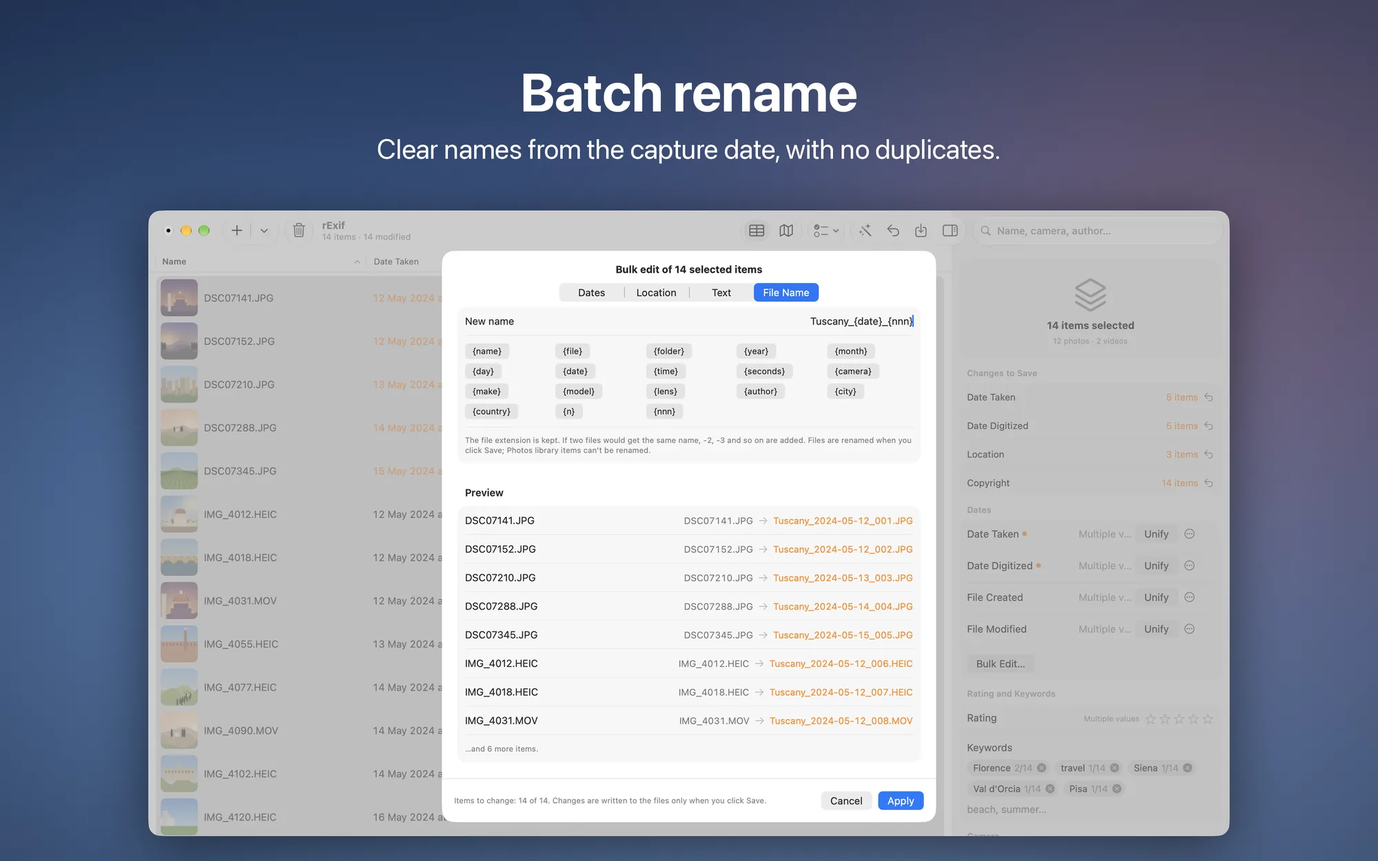
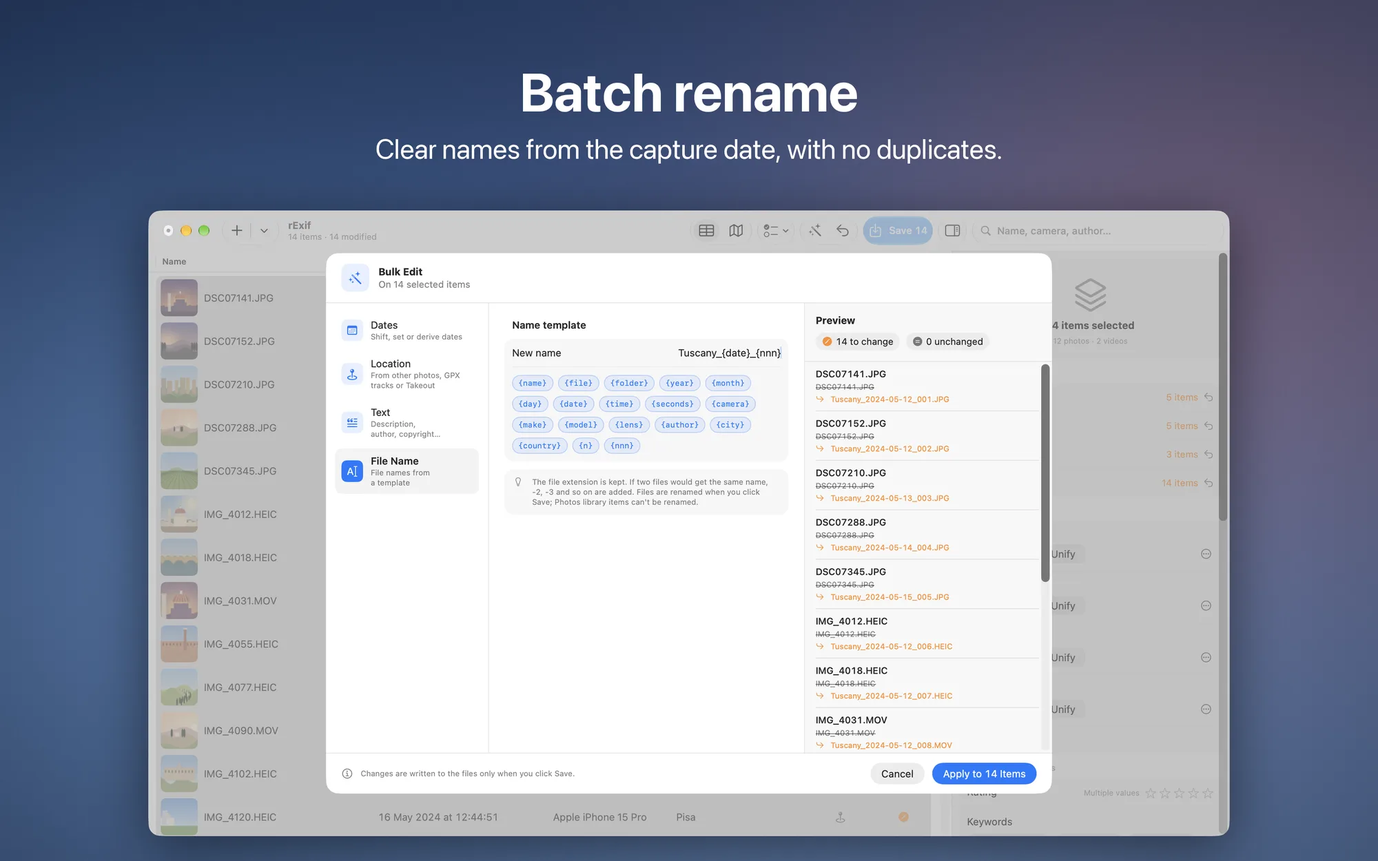
feat(rexif): pagina, screenshot e documentazione per la 1.1

diff --git a/src/data/projects/rexif.md b/src/data/projects/rexif.md
@@ -23,16 +23,18 @@ rExif è l'editor di metadati per foto e video sul Mac. Data sbagliata, posizion
 - **Date giuste, anche in blocco**: sposta tutte le date di un intervallo, ad esempio quando l'orologio della fotocamera era indietro di un'ora, oppure correggilo partendo da una foto di cui conosci l'ora esatta
 - **Date da dove servono**: ricavate dal nome del file (IMG_20230514_123456, WhatsApp, screenshot, Pixel…), dal nome della cartella o dai JSON di Google Takeout; date in sequenza, quelle mancanti riempite dai vicini, cambio di fuso orario
 - **Date del file allineate**: creazione e modifica del file portate alla data di scatto in un clic
-- **Posizione sulla mappa**: trascini le foto sulla mappa per assegnare la posizione, oppure cerchi un luogo per nome
+- **Posizione sulla mappa**: trascini le foto sulla mappa per assegnare la posizione, oppure cerchi un luogo per nome; le foto scattate nello stesso posto si raggruppano, con il numero di scatti
 - **Posizione automatica**: dalla foto più vicina nel tempo, da una traccia GPX (Strava, Garmin…) o da Google Takeout; città, regione e paese ricavati dalle coordinate
 - **Copie da condividere**: esporti copie senza posizione né dati personali
 - **Testo e parole chiave**: fotocamera, obiettivo, descrizione, autore e copyright; modelli con segnaposto come "© {anno} Mario Rossi" e trova e sostituisci su tutti gli elementi; parole chiave e valutazione a stelle, lette anche da Lightroom
 - **Rinomina in blocco**: con un modello, ad esempio `{data}_{nnn}`
-- **Lavora veloce**: tabella con colonne personalizzabili, ricerca e selezione rapida (senza data, senza posizione, date sospette, per fotocamera…); copia i metadati da una foto e incollali su altre; esporta e importa in CSV per correggerli in un foglio di calcolo
-- **Controlla prima di salvare**: ogni modifica si annulla, si ripete o si ripristina; Anteprima rapida con la barra spaziatrice
+- **Modifiche in blocco chiare**: le operazioni sono divise in date, posizione, testo e nome file, e l'anteprima mostra ogni elemento, prima e dopo, mentre cambi le opzioni; se cambi idea, annulli dal messaggio che conferma la modifica o con <kbd>⌘</kbd> <kbd>Z</kbd>
+- **Lavora veloce**: tabella con colonne personalizzabili e ricerca su nome, fotocamera, autore, luogo e parole chiave; filtri nella ricerca e selezione rapida (modificati, senza data, senza posizione, date sospette, solo video, per fotocamera…); copia i metadati da una foto e incollali su altre; esporta e importa in CSV per correggerli in un foglio di calcolo
+- **Controlla prima di salvare**: ogni modifica si annulla, si ripete o si ripristina; Anteprima rapida con la barra spaziatrice; nell'inspector una mappa in miniatura e gli errori di lettura o salvataggio in evidenza
+- **Pensata per librerie grandi**: le cartelle con migliaia di foto compaiono a blocchi mentre rExif le esamina, senza bloccare la finestra; ricerca, ordinamento e miniature restano rapidi
 - **Tutti i formati**: JPEG, HEIC, PNG e TIFF riscritti senza ricomprimere l'immagine; MOV, MP4 e M4V senza ricodificare; RAW (CR2, NEF, ARW…) e AVI, MKV, MTS restano intatti e i metadati vanno in un `.xmp` accanto, letto da Lightroom, Bridge e Premiere
 - **Libreria Foto**: modifichi data e posizione direttamente in Foto, oppure esporti gli originali
-- **Integrata con macOS**: trascinamento nella finestra o sull'icona nel Dock, "Apri con…" dal Finder, riapertura della sessione precedente
+- **Integrata con macOS**: trascinamento nella finestra o sull'icona nel Dock, "Apri con…" dal Finder, cartelle recenti, riapertura della sessione precedente; rispetta Riduci movimento delle impostazioni di Accessibilità
 - **Tema chiaro, scuro o automatico**: interfaccia in italiano e in inglese
 - **Nessun abbonamento**: gratuita, senza pubblicità e senza acquisti in-app
 

diff --git a/src/data/en/projects/rexif.md b/src/data/en/projects/rexif.md
@@ -23,16 +23,18 @@ rExif is the metadata editor for photos and videos on your Mac. Wrong dates, mis
 - **The right dates, even in bulk**: shift every date by an interval, for example when the camera clock was an hour behind, or correct it from one photo whose exact time you know
 - **Dates from wherever they are**: from the file name (IMG_20230514_123456, WhatsApp, screenshots, Pixel…), the folder name, or Google Takeout JSON files; dates in sequence, missing ones filled in from their neighbors, time zone changes
 - **File dates aligned**: file creation and modification dates matched to the capture date in one click
-- **Location on the map**: drag photos onto the map to set their location, or search for a place by name
+- **Location on the map**: drag photos onto the map to set their location, or search for a place by name; photos taken in the same spot are grouped, with the number of shots
 - **Automatic location**: from the photo closest in time, from a GPX track (Strava, Garmin…), or from Google Takeout; city, state, and country from the coordinates
 - **Copies to share**: export copies without location or personal data
 - **Text and keywords**: camera, lens, description, author, and copyright; templates with placeholders such as "© {year} Jane Smith", plus find and replace across every item; keywords and star ratings, also read by Lightroom
 - **Batch rename**: with a template, for example `{date}_{nnn}`
-- **Work fast**: a table with customizable columns, search, and quick selection (no date, no location, suspicious dates, by camera…); copy metadata from one photo and paste it onto others; export and import as CSV to fix it in a spreadsheet
-- **Review before you save**: every change can be undone, redone, or reverted; Quick Look with the space bar
+- **Clear bulk edits**: operations are split into dates, location, text, and file name, and the preview shows every item, before and after, while you change the options; changed your mind? Undo from the message that confirms the edit, or with <kbd>⌘</kbd> <kbd>Z</kbd>
+- **Work fast**: a table with customizable columns and search across name, camera, author, place, and keywords; filters in search and quick selection (modified, no date, no location, suspicious dates, videos only, by camera…); copy metadata from one photo and paste it onto others; export and import as CSV to fix it in a spreadsheet
+- **Review before you save**: every change can be undone, redone, or reverted; Quick Look with the space bar; a mini map in the inspector, with read and save errors front and center
+- **Built for large libraries**: folders with thousands of photos appear in batches while rExif scans them, without freezing the window; search, sorting, and thumbnails stay fast
 - **Every format**: JPEG, HEIC, PNG, and TIFF rewritten without recompressing the image; MOV, MP4, and M4V without re-encoding; RAW (CR2, NEF, ARW…) and AVI, MKV, MTS stay untouched, with metadata in an `.xmp` next to them, read by Lightroom, Bridge, and Premiere
 - **Photos library**: change the date and location right in Photos, or export the originals
-- **Built for macOS**: drag into the window or onto the Dock icon, "Open With…" in Finder, reopens your previous session
+- **Built for macOS**: drag into the window or onto the Dock icon, "Open With…" in Finder, recent folders, reopens your previous session; respects Reduce Motion in Accessibility settings
 - **Light, dark, or automatic appearance**: interface in English and Italian
 - **No subscription**: free, with no ads and no in-app purchases
 

diff --git a/src/data/docs/rexif/scorciatoie-filtri.md b/src/data/docs/rexif/scorciatoie-filtri.md
@@ -1,6 +1,6 @@
 ---
-title: "Scorciatoie e selezioni rapide"
-description: "Elenco completo delle scorciatoie da tastiera di rExif e dei criteri del menu Seleziona per lavorare più in fretta."
+title: "Scorciatoie, filtri e selezioni rapide"
+description: "Le scorciatoie da tastiera di rExif, i filtri della casella di ricerca e i criteri del menu Seleziona per trovare in fretta le foto da correggere."
 project: "rexif"
 order: 9
 section: "Riferimento"
@@ -19,12 +19,12 @@ Le funzioni principali di rExif hanno una scorciatoia da tastiera:
 | **Salva modifiche** | `⌘ + S` | Scrive su disco tutte le modifiche evidenziate in arancione |
 | **Svuota lista** | `⇧ + ⌘ + ⌫` | Toglie tutti gli elementi dalla finestra (i file su disco restano intatti, `⌘Z` li rimette) |
 | **Mostra nel Finder** | `⇧ + ⌘ + R` | Mostra i file selezionati nella loro cartella del Finder |
-| **Impostazioni** | `⌘ + ,` | Apre le impostazioni (lingua, aspetto, miniature, sessione) |
+| **Impostazioni** | `⌘ + ,` | Apre le impostazioni (generale, aspetto, avanzate, informazioni) |
 
 ### Modifiche e metadati
 | Azione | Scorciatoia | Descrizione |
 | :--- | :--- | :--- |
-| **Modifiche in blocco…** | `⇧ + ⌘ + D` | Apre il pannello batch con anteprima riga per riga |
+| **Modifiche in blocco…** | `⇧ + ⌘ + D` | Apre la finestra delle modifiche in blocco, con l'anteprima di ogni elemento |
 | **Allinea tutte le date alla data di scatto** | `⇧ + ⌘ + L` | Copia la data di scatto nella data di digitalizzazione e nelle date del file |
 | **Copia metadati** | `⌥ + ⌘ + C` | Copia i metadati della foto selezionata negli appunti |
 | **Incolla metadati** | `⌥ + ⌘ + V` | Incolla tutti i metadati copiati sulla selezione (dal menu puoi incollarne anche solo una parte) |
@@ -41,6 +41,14 @@ Le funzioni principali di rExif hanno una scorciatoia da tastiera:
 | **Ingrandisci miniature** | `⌘ + +` | Aumenta la dimensione delle miniature nella tabella |
 | **Riduci miniature** | `⌘ + -` | Riduce la dimensione delle miniature nella tabella |
 | **Anteprima rapida** | `Spazio` | Mostra l'anteprima Quick Look degli elementi selezionati |
+
+## Filtri nella ricerca
+
+La casella di ricerca nella barra degli strumenti (*Nome, fotocamera, autore…*) cerca nel nome del file, nella fotocamera e nell'obiettivo, nella descrizione, nell'autore, nel copyright, nel luogo (città, regione, paese) e nelle parole chiave.
+
+Mentre scrivi, sotto la casella compaiono anche dei filtri: sceglierne uno lo aggiunge alla casella come un'etichetta. I filtri disponibili sono **Modificati**, **Senza GPS**, **Con GPS**, **Senza data**, **Date sospette**, **Date del file diverse**, **Solo foto**, **Solo video**, **Libreria Foto** ed **Errori**, con gli stessi criteri delle voci del menu Seleziona descritte sotto.
+
+Con più filtri, o con un filtro e del testo, la tabella e la mappa mostrano solo gli elementi che li soddisfano tutti. Le modifiche in blocco, se non hai selezionato niente, valgono per gli elementi visibili.
 
 ## Il menu Seleziona
 

diff --git a/src/data/docs/rexif/installazione.md b/src/data/docs/rexif/installazione.md
@@ -37,11 +37,27 @@ rExif lavora con l'app Foto di macOS in due modi, tramite il framework di sistem
 
 - **Accesso ai file**: rExif lavora nella sandbox e accede solo ai file e alle cartelle che apri tu, con il trascinamento, con **Apri con** dal Finder o con il pannello **Aggiungi foto e video…** (`⌘O`). Per creare un file `.xmp` accanto a un file aggiunto da solo, al salvataggio rExif chiede l'accesso alla sua cartella.
 - **Sessione**: alla chiusura, i percorsi dei file e gli identificativi degli elementi di Foto vengono ricordati come segnalibri sicuri (`SessionStore`); al riavvio rExif riapre la sessione precedente. Puoi disattivare questa funzione nelle Impostazioni.
+- **Cartelle recenti**: rExif ricorda le ultime cinque cartelle aggiunte, con un segnalibro sicuro. Quando la lista è vuota compaiono nella finestra e si riaprono con un clic; le cancelli dalle Impostazioni.
 
 ## Impostazioni (`⌘,`)
 
-Nelle Impostazioni puoi scegliere:
-- **Lingua**: *Sistema*, *Italiano* o *English* (applicata al riavvio dell'app).
-- **Aspetto**: *Sistema*, *Chiaro* o *Scuro*.
-- **Miniature**: la dimensione delle miniature nella tabella.
-- **Sessione**: se riaprire all'avvio gli elementi della sessione precedente.
+Le Impostazioni hanno quattro schede.
+
+### Generale
+- **Lingua**: *Sistema*, *Italiano* o *English*. La nuova lingua si usa al prossimo avvio; con **Riavvia ora** l'app si riapre subito (con modifiche non salvate non si riavvia: prima vanno salvate o ripristinate). Date e numeri seguono comunque il formato della regione scelta in Impostazioni di Sistema.
+- **Riapri gli elementi della sessione precedente**: riapre all'avvio file e cartelle della lista. Le modifiche non salvate non vengono conservate.
+- **Cartelle recenti**: quante ne sono ricordate, con il pulsante **Cancella elenco**.
+
+### Aspetto
+- **Tema**: *Sistema*, *Chiaro* o *Scuro*.
+- **Miniature**: *Piccole*, *Medie* o *Grandi*, con un'anteprima dell'altezza delle righe.
+- **Date compatte**: date più corte nelle colonne della tabella, che così occupano meno spazio.
+- **Colonne, ordine e larghezze**: **Ripristina** torna alle colonne iniziali. Le colonne si mostrano o nascondono anche con un clic destro sulle intestazioni.
+- **Animazioni**: seguono il sistema. Con *Riduci movimento* attivo in Impostazioni di Sistema › Accessibilità › Monitor, mappa e pannelli non si animano.
+
+### Avanzate
+- **Miniature in memoria**: il limite di memoria per le miniature, con il pulsante **Svuota**. Le miniature si rigenerano quando servono e si liberano da sole se il Mac ha bisogno di memoria.
+- **Letture in parallelo**: automatiche, in base al disco: sei file insieme sul disco interno, tre su un disco esterno, due su un volume di rete.
+
+### Informazioni
+Versione e build dell'app e un riepilogo della privacy.

diff --git a/src/data/docs/rexif/index.md b/src/data/docs/rexif/index.md
@@ -32,7 +32,20 @@ section: "Iniziare"
 
 Dalla barra degli strumenti o con una scorciatoia puoi passare da una modalità all'altra:
 - **Come tabella** (`⌃⌘1`): elenco completo con miniature ridimensionabili (`⌘+`, `⌘-`), colonne ordinabili e selezione multipla.
-- **Come mappa** (`⌃⌘2`): tutti gli elementi con una posizione su una mappa di Apple Maps, ciascuno con il suo segnaposto.
+- **Come mappa** (`⌃⌘2`): tutti gli elementi con una posizione su una mappa di Apple Maps, con la loro miniatura. Le foto scattate nello stesso posto si raggruppano in un'unica miniatura con il numero di scatti; avvicinandoti i gruppi si separano.
+
+La casella di ricerca nella barra degli strumenti cerca per nome del file, fotocamera, obiettivo, descrizione, autore, copyright, luogo e parole chiave, e accetta dei filtri (vedi [Scorciatoie, filtri e selezioni rapide](/progetti/rexif/docs/scorciatoie-filtri)).
+
+## Modifiche in blocco (`⇧⌘D`)
+
+La finestra **Modifiche in blocco** lavora sugli elementi selezionati, o, se non ne hai selezionato nessuno, su tutti quelli visibili nella lista (cioè che passano ricerca e filtri). È divisa in tre colonne:
+- a sinistra le sezioni **Date**, **Posizione**, **Testo** e **Nome file**, ciascuna con una riga che dice cosa fa;
+- al centro le opzioni dell'operazione scelta;
+- a destra l'**Anteprima**, che mostra ogni elemento prima e dopo e si aggiorna mentre cambi le opzioni.
+
+**Applica** porta le modifiche nella lista, in arancione: i file cambiano solo quando premi **Salva**. Dopo l'applicazione compare in basso un messaggio con il pulsante **Annulla**, che toglie la modifica in blocco appena fatta; resta visibile per circa dieci secondi, poi puoi sempre usare `⌘Z`.
+
+Con molti elementi l'anteprima si calcola in background, e l'applicazione, l'aggiunta di cartelle grandi e il salvataggio mostrano l'avanzamento in un pannello: la finestra resta utilizzabile.
 
 ## Prossimi passi
 
@@ -43,4 +56,4 @@ Dalla barra degli strumenti o con una scorciatoia puoi passare da una modalità 
 - [Rinomina in blocco e CSV](/progetti/rexif/docs/rinomina-esportazione-batch): modelli di rinomina ed esportazione e importazione dei metadati in CSV.
 - [Pulizia e copie senza dati personali](/progetti/rexif/docs/pulizia-metadati): esportazione di copie da condividere.
 - [Formati e sidecar XMP](/progetti/rexif/docs/formati-e-sidecar): dettagli tecnici su MOV/MP4, RAW e limiti noti.
-- [Scorciatoie e selezioni rapide](/progetti/rexif/docs/scorciatoie-filtri): elenco delle scorciatoie da tastiera e del menu Seleziona.
+- [Scorciatoie, filtri e selezioni rapide](/progetti/rexif/docs/scorciatoie-filtri): scorciatoie da tastiera, filtri nella ricerca e menu Seleziona.

diff --git a/src/data/en/docs/rexif/shortcuts-and-filters.md b/src/data/en/docs/rexif/shortcuts-and-filters.md
@@ -1,6 +1,6 @@
 ---
-title: "Shortcuts and Quick Selections"
-description: "Complete list of rExif keyboard shortcuts and of the Select menu criteria to work faster."
+title: "Shortcuts, Filters and Quick Selections"
+description: "rExif keyboard shortcuts, search field filters and the Select menu criteria, to quickly find the photos that need fixing."
 project: "rexif"
 order: 9
 section: "Reference"
@@ -19,12 +19,12 @@ The main features of rExif have a keyboard shortcut:
 | **Save Changes** | `⌘ + S` | Writes every orange change to disk |
 | **Clear List** | `⇧ + ⌘ + ⌫` | Removes every item from the window (files on disk stay intact, `⌘Z` brings them back) |
 | **Show in Finder** | `⇧ + ⌘ + R` | Shows the selected files in their Finder folder |
-| **Settings** | `⌘ + ,` | Opens settings (language, appearance, thumbnails, session) |
+| **Settings** | `⌘ + ,` | Opens settings (General, Appearance, Advanced, About) |
 
 ### Editing and Metadata
 | Action | Shortcut | Description |
 | :--- | :--- | :--- |
-| **Bulk Edit…** | `⇧ + ⌘ + D` | Opens the bulk panel with a row-by-row preview |
+| **Bulk Edit…** | `⇧ + ⌘ + D` | Opens the Bulk Edit window, with a preview of every item |
 | **Align All Dates to Date Taken** | `⇧ + ⌘ + L` | Copies the date taken to the date digitized and the file dates |
 | **Copy Metadata** | `⌥ + ⌘ + C` | Copies the selected photo's metadata |
 | **Paste Metadata** | `⌥ + ⌘ + V` | Pastes all copied metadata onto the selection (from the menu you can paste just part of it) |
@@ -41,6 +41,14 @@ The main features of rExif have a keyboard shortcut:
 | **Bigger thumbnails** | `⌘ + +` | Increases thumbnail size in the table |
 | **Smaller thumbnails** | `⌘ + -` | Decreases thumbnail size in the table |
 | **Quick Look** | `Space` | Shows the Quick Look preview of the selected items |
+
+## Filters in Search
+
+The search field in the toolbar (*Name, camera, author…*) searches the file name, camera and lens, description, author, copyright, place (city, state, country), and keywords.
+
+As you type, filters also appear below the field: choosing one adds it to the field as a token. The available filters are **Modified**, **No GPS**, **With GPS**, **No Date**, **Suspicious Dates**, **Different File Dates**, **Photos Only**, **Videos Only**, **Photos Library**, and **Errors**, with the same criteria as the Select menu items described below.
+
+With several filters, or a filter and some text, the table and the map only show the items that match all of them. If nothing is selected, bulk edits apply to the visible items.
 
 ## The Select Menu
 

diff --git a/src/data/en/docs/rexif/installation.md b/src/data/en/docs/rexif/installation.md
@@ -37,11 +37,27 @@ rExif works with the macOS Photos app in two ways, through Apple's **PhotoKit** 
 
 - **File access**: rExif runs in the sandbox and only accesses the files and folders you open, by dragging, with **Open With** from the Finder or with the **Add Photos and Videos…** panel (`⌘O`). To create an `.xmp` file next to a file you added on its own, rExif asks for access to its folder when saving.
 - **Session**: on quit, file paths and Photos item identifiers are remembered as secure bookmarks (`SessionStore`); on the next launch rExif reopens the previous session. You can turn this off in Settings.
+- **Recent folders**: rExif remembers the last five folders you added, with a secure bookmark. When the list is empty they appear in the window and reopen with a click; you can clear them in Settings.
 
 ## Settings (`⌘,`)
 
-In Settings you can choose:
-- **Language**: *System*, *Italian* or *English* (applied when the app restarts).
-- **Appearance**: *System*, *Light* or *Dark*.
-- **Thumbnails**: the size of thumbnails in the table.
-- **Session**: whether to reopen the previous session's items at launch.
+Settings has four tabs.
+
+### General
+- **Language**: *System*, *Italiano* or *English*. The new language is used at the next launch; **Restart Now** reopens the app right away (with unsaved changes it won't restart: save or revert them first). Dates and numbers always follow the format of the region chosen in System Settings.
+- **Reopen the items from the previous session**: reopens the files and folders in the list at launch. Unsaved changes are not kept.
+- **Recent Folders**: how many are remembered, with a **Clear List** button.
+
+### Appearance
+- **Theme**: *System*, *Light* or *Dark*.
+- **Thumbnails**: *Small*, *Medium* or *Large*, with a preview of the row height.
+- **Compact dates**: shorter dates in the table columns, so they take up less space.
+- **Columns, order and widths**: **Revert** goes back to the default columns. You can also show or hide columns by right-clicking the headers.
+- **Animations**: follow the system. With *Reduce Motion* turned on in System Settings › Accessibility › Display, the map and panels don't animate.
+
+### Advanced
+- **Thumbnails in memory**: the memory limit for thumbnails, with a **Clear** button. Thumbnails are regenerated when needed and released automatically if the Mac needs memory.
+- **Parallel reads**: automatic, depending on the disk: six files at a time on the internal disk, three on an external disk, two on a network volume.
+
+### About
+The app's version and build, and a privacy summary.

diff --git a/src/data/en/docs/rexif/index.md b/src/data/en/docs/rexif/index.md
@@ -32,7 +32,20 @@ It's designed to fix the most common problems in photo and video libraries quick
 
 From the toolbar or with a shortcut you can switch between two modes:
 - **As Table** (`⌃⌘1`): full list with resizable thumbnails (`⌘+`, `⌘-`), sortable columns and multiple selection.
-- **As Map** (`⌃⌘2`): every item with a location on an Apple Maps map, each with its own pin.
+- **As Map** (`⌃⌘2`): every item with a location on an Apple Maps map, shown with its thumbnail. Photos taken in the same spot are grouped into one thumbnail with the number of shots; zoom in and the groups split apart.
+
+The search field in the toolbar searches file name, camera, lens, description, author, copyright, place, and keywords, and accepts filters (see [Shortcuts, Filters and Quick Selections](/en/projects/rexif/docs/shortcuts-and-filters)).
+
+## Bulk Edit (`⇧⌘D`)
+
+The **Bulk Edit** window works on the selected items, or, if nothing is selected, on every item visible in the list (those that pass the search and filters). It has three columns:
+- on the left, the **Dates**, **Location**, **Text**, and **File Name** sections, each with a line saying what it does;
+- in the middle, the options of the chosen operation;
+- on the right, the **Preview**, which shows every item before and after and updates as you change the options.
+
+**Apply** brings the changes into the list, in orange: files only change when you press **Save**. After applying, a message appears at the bottom with an undo button that reverts the bulk edit you just made; it stays for about ten seconds, and after that you can always use `⌘Z`.
+
+With many items the preview is calculated in the background, and applying, adding large folders and saving show their progress in a panel: the window stays usable.
 
 ## Next Steps
 
@@ -43,4 +56,4 @@ From the toolbar or with a shortcut you can switch between two modes:
 - [Batch Renaming and CSV](/en/projects/rexif/docs/batch-rename-export): rename templates and metadata export and import as CSV.
 - [Clean-Up and Copies Without Personal Data](/en/projects/rexif/docs/metadata-scrubbing): exporting copies to share.
 - [Formats and XMP Sidecars](/en/projects/rexif/docs/formats-and-sidecars): technical details on MOV/MP4, RAW and known limits.
-- [Shortcuts and Quick Selections](/en/projects/rexif/docs/shortcuts-and-filters): keyboard shortcuts and the Select menu.
+- [Shortcuts, Filters and Quick Selections](/en/projects/rexif/docs/shortcuts-and-filters): keyboard shortcuts, search filters and the Select menu.

diff --git a/src/data/docs/rexif/geolocalizzazione-mappa.md b/src/data/docs/rexif/geolocalizzazione-mappa.md
@@ -16,9 +16,17 @@ Puoi assegnare una posizione in diversi modi:
 - **Coordinate incollate**: copia le coordinate da Google Maps o Mappe (es. `45.4642, 9.1900`) e incollale nel campo della posizione nell'inspector.
 - **Ricerca per nome**: digita il nome di un luogo o un indirizzo (`MKLocalSearch`) per centrare la mappa e assegnare le coordinate con un clic.
 
+In cima all'inspector, sotto l'anteprima, un elemento con una posizione mostra una mappa in miniatura: un clic porta alla sezione **Posizione**.
+
+## La vista Come mappa
+
+Nella vista **Come mappa** ogni elemento con una posizione compare con la sua miniatura. Le foto scattate nello stesso posto formano un gruppo, con il numero di scatti sulla miniatura: un clic seleziona tutto il gruppo, e avvicinandoti i gruppi si separano. **Mostra tutti** inquadra di nuovo tutti gli elementi.
+
+Il riquadro **Senza posizione** elenca gli elementi ancora senza coordinate: trascinali sulla mappa. Il pulsante **Dalle foto vicine nel tempo** assegna a ciascuno la posizione della foto con GPS scattata entro 30 minuti.
+
 ## Posizione in blocco (`⇧⌘D`)
 
-Nella finestra **Modifiche in blocco**, la scheda *Posizione* calcola la posizione di ogni elemento da una di queste fonti.
+Nella finestra **Modifiche in blocco**, la sezione **Posizione** calcola la posizione di ogni elemento da una di queste fonti.
 
 ### Dalla foto più vicina nel tempo
 Se in viaggio hai scattato con una fotocamera senza GPS e insieme con uno smartphone che registra la posizione:
@@ -27,7 +35,7 @@ Se in viaggio hai scattato con una fotocamera senza GPS e insieme con uno smartp
 
 ### Da traccia GPX
 Se hai una traccia `.gpx` registrata con un orologio sportivo, un'app di fitness o un navigatore:
-1. scegli il file GPX nella scheda;
+1. scegli il file GPX nella sezione;
 2. rExif calcola, interpolando tra i punti della traccia, la posizione corrispondente all'ora di scatto di ogni foto.
 
 ### Da JSON di Google Takeout

diff --git a/src/data/en/docs/rexif/geolocation-maps.md b/src/data/en/docs/rexif/geolocation-maps.md
@@ -16,9 +16,17 @@ You can assign a location in several ways:
 - **Pasted coordinates**: copy coordinates from Google Maps or Apple Maps (e.g. `45.4642, 9.1900`) and paste them into the location field in the inspector.
 - **Search by name**: type the name of a place or an address (`MKLocalSearch`) to center the map and assign the coordinates with a click.
 
+At the top of the inspector, below the preview, an item with a location shows a mini map: click it to go to the **Location** section.
+
+## The As Map View
+
+In the **As Map** view every item with a location appears with its thumbnail. Photos taken in the same spot form a group, with the number of shots on the thumbnail: a click selects the whole group, and the groups split apart as you zoom in. **Show All** fits every item in view again.
+
+The **Without Location** panel lists the items that still have no coordinates: drag them onto the map. The **From Photos Taken Nearby in Time** button gives each one the location of the GPS-tagged photo taken within 30 minutes.
+
 ## Bulk Location (`⇧⌘D`)
 
-In the **Bulk Edit** window, the *Location* tab works out each item's location from one of these sources.
+In the **Bulk Edit** window, the **Location** section works out each item's location from one of these sources.
 
 ### From the Nearest Photo in Time
 If on a trip you shot with a camera without GPS alongside a smartphone that records location:
@@ -27,7 +35,7 @@ If on a trip you shot with a camera without GPS alongside a smartphone that reco
 
 ### From a GPX Track
 If you have a `.gpx` track recorded with a sports watch, fitness app or navigator:
-1. choose the GPX file in the tab;
+1. choose the GPX file in the section;
 2. rExif interpolates between the track points to find the location matching each photo's capture time.
 
 ### From Google Takeout JSON

diff --git a/src/data/docs/rexif/pulizia-metadati.md b/src/data/docs/rexif/pulizia-metadati.md
@@ -19,7 +19,7 @@ rExif permette sia di togliere singoli campi dai file originali, sia di esportar
 
 Se vuoi ripulire direttamente i tuoi file:
 - **Posizione**: seleziona le foto e scegli **Rimuovi posizione** dal menu contestuale (oppure usa il pulsante accanto alle coordinate nell'inspector). Latitudine, longitudine e altitudine vengono cancellate.
-- **Autore e copyright**: seleziona gli elementi e cancella i campi nell'inspector o con la scheda Testo delle modifiche in blocco.
+- **Autore e copyright**: seleziona gli elementi e cancella i campi nell'inspector o con la sezione **Testo** delle modifiche in blocco.
 - **Nessuna sorpresa**: le rimozioni compaiono in arancione come qualsiasi altra modifica e diventano effettive solo quando premi **Salva** (`⌘S`).
 
 ## Esporta copie senza dati personali

diff --git a/src/data/docs/rexif/gestione-date.md b/src/data/docs/rexif/gestione-date.md
@@ -19,7 +19,7 @@ rExif gestisce separatamente quattro date per ciascun file:
 
 ## Modifiche in blocco delle date (`⇧⌘D`)
 
-Nella finestra **Modifiche in blocco** (`⇧⌘D` o menu *Metadati*), la scheda delle date offre diverse modalità. Ogni elemento riceve un valore calcolato dai propri dati, con anteprima riga per riga.
+Nella finestra **Modifiche in blocco** (`⇧⌘D` o menu *Metadati*), la sezione **Date** offre diverse modalità. Ogni elemento riceve un valore calcolato dai propri dati, e l'anteprima mostra la data prima e dopo per ciascuno.
 
 ### 1. Sposta di un intervallo
 Utile quando l'orologio della fotocamera era sbagliato o non era passato all'ora legale. Indica una variazione in giorni, ore, minuti e secondi, positiva o negativa: ogni elemento mantiene la sua distanza dagli altri.
